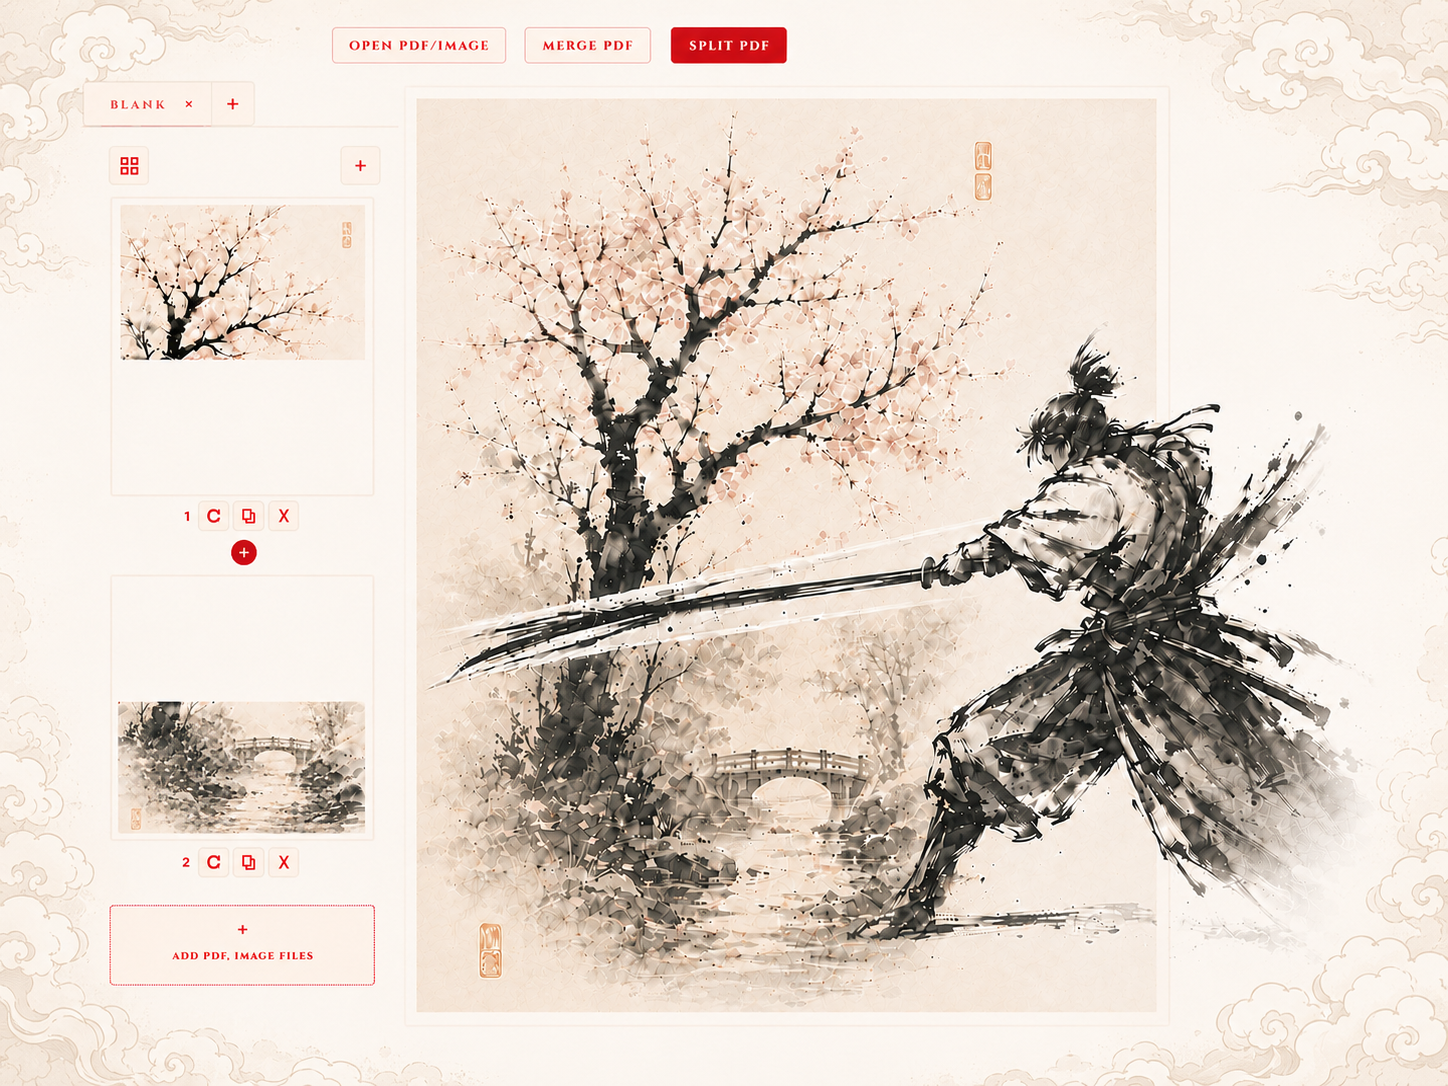
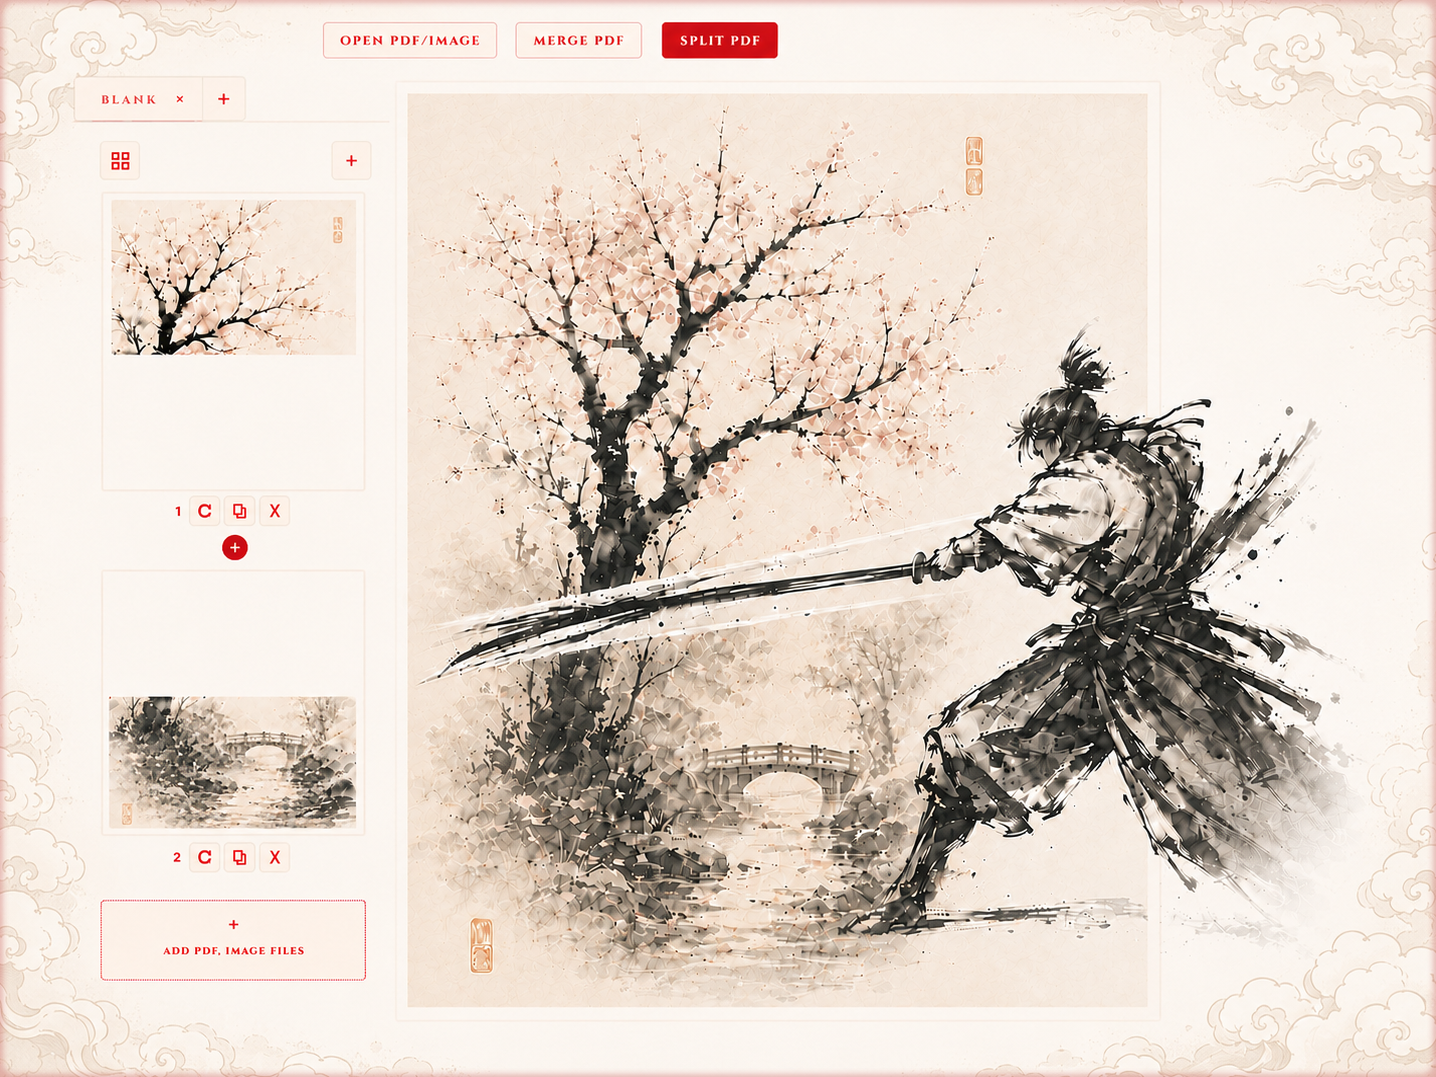
Rotation-aware text placement, shape export rotation, dead code cleanup
Audit fixes (1, 2, 3, 5, 6) from ChatGPT plan plus stub-file cleanup:

1. addFloatingBox: convert visual placement to page coords using the
   page's rotation, so text added on a rotated page lands where the
   user clicked, not at the unrotated center.

2. rasterizePage: shapes now rotate with pageRotation so the export
   matches the editor view (text and images already did).

3. Updated stale rasterizePage comment that claimed text was not
   rotated by pageRotation; it has been since the earlier text fix.

5. Extracted resetEditorState() shared by doGoHome and closeTab's
   no-tabs-left branch so they can't drift. Also pulled the closeTab
   reset out of the setTabsList updater to avoid double-run in StrictMode.

6. Split the one-line `rotate(...); drawImage(...)` in the image branch
   onto separate lines.

Dead files removed (never imported anywhere):
- PDFPage.jsx, PageThumbnails.jsx, Toolbar.jsx (one-line stubs)
- GridView.jsx, PageView.jsx (replaced by inline JSX in PDFEditor.jsx)

Also pushes the updated samurai.png.

diff --git a/src/components/PDFEditor/PDFEditor.jsx b/src/components/PDFEditor/PDFEditor.jsx
@@ -761,10 +761,9 @@ export default function PDFEditor({ pendingFile, onPendingFileConsumed, navigate
   // Close the editor entirely and return to the homepage. Wired to the
   // \'katanapdf\' wordmark in the editor toolbar - without this the link only
   // updates the URL hash and the editor still renders because pages.length > 0.
-  function doGoHome() {
-    tabSnapshots.current = {};
-    setTabsList([]);
-    setActiveTabId(null);
+  // Shared reset path used by doGoHome and closeTab's no-tabs-left branch so we
+  // don't drift on which state fields each clears.
+  function resetEditorState() {
     setPages([]);
     setPageOrder([]);
     setRotatedPages({});
@@ -785,6 +784,13 @@ export default function PDFEditor({ pendingFile, onPendingFileConsumed, navigate
     setShowSupportPrompt(false);
   }
 
+  function doGoHome() {
+    tabSnapshots.current = {};
+    setTabsList([]);
+    setActiveTabId(null);
+    resetEditorState();
+  }
+
   function goHome() {
     if (pdfBytes) { setShowLeaveConfirm(true); return; }
     doGoHome();
@@ -792,33 +798,18 @@ export default function PDFEditor({ pendingFile, onPendingFileConsumed, navigate
 
   function closeTab(id) {
     delete tabSnapshots.current[id];
-    setTabsList(prev => {
-      const next = prev.filter(t => t.id !== id);
-      if (id === activeTabId) {
-        if (next.length) {
-          // Activate the first remaining tab
-          const newActive = next[0].id;
-          const snap = tabSnapshots.current[newActive];
-          if (snap) restoreSnapshot(snap);
-          setActiveTabId(newActive);
-        } else {
-          // No tabs left - return to homepage
-          setPages([]);
-          setPageOrder([]);
-          setRotatedPages({});
-          setDeletedPages(new Set());
-          setTextBlocks({});
-          setFloatingBoxes([]);
-          setFloatingImages([]);
-          setFloatingShapes([]);
-          setHistory([]);
-          setFileName("");
-          setPdfBytes(null);
-          setActiveTabId(null);
-        }
-      }
-      return next;
-    });
+    const remaining = tabsList.filter(t => t.id !== id);
+    setTabsList(remaining);
+    if (id !== activeTabId) return;
+    if (remaining.length) {
+      const newActive = remaining[0].id;
+      const snap = tabSnapshots.current[newActive];
+      if (snap) restoreSnapshot(snap);
+      setActiveTabId(newActive);
+    } else {
+      setActiveTabId(null);
+      resetEditorState();
+    }
   }
 
   function movePageTo(pageNum, targetDisplayIdx) {
@@ -1033,9 +1024,19 @@ function addFloatingBox(pageNum) {
   floatingIdCounter++;
 
   const id = `float-${floatingIdCounter}`;
-
-  const x = pg.width / 2;
-  const y = pg.height * 0.18;
+  const rot = rotatedPages[pageNum] || 0;
+  const swap = rot === 90 || rot === 270;
+  const visW = swap ? pg.height : pg.width;
+  const visH = swap ? pg.width : pg.height;
+  const visX = visW / 2;
+  const visY = Math.max(60, visH * 0.18);
+  const rad = -rot * Math.PI / 180;
+  const cos = Math.cos(rad);
+  const sin = Math.sin(rad);
+  const dx = visX - visW / 2;
+  const dy = visY - visH / 2;
+  const pageX = pg.width / 2 + dx * cos - dy * sin;
+  const pageY = pg.height / 2 + dx * sin + dy * cos;
 
   setFloatingBoxes(prev => [
     ...prev,
@@ -1043,8 +1044,8 @@ function addFloatingBox(pageNum) {
       id,
       page: pageNum,
       z: 50 + floatingIdCounter,
-      x,
-      y,
+      x: pageX,
+      y: pageY,
       text: "",
       fontSize: 14,
       fontFamily: "Arial, sans-serif",
@@ -1770,9 +1771,9 @@ function addFloatingBox(pageNum) {
     outCtx.drawImage(baseCanvas, 0, 0);
     outCtx.restore();
 
-    // 3. Draw floating items at their visual positions on the output canvas.
-    //    Text uses only fb.angle (user-explicit rotation) — NOT the page rotation —
-    //    so it stays visually upright, matching the editor view.
+    // 3. Draw floating items at their visual positions on the rotated output canvas.
+    //    Text, images and shapes all include pageRotation so the export matches the
+    //    editor view, where floating items live inside the CSS-rotated page container.
     const rasterItems = [
       ...floatingBoxes.filter(f => f.page === pg.num).map(f => ({ ...f, _kind: 'box' })),
       ...floatingImages.filter(f => f.page === pg.num).map(f => ({ ...f, _kind: 'image' })),
@@ -1809,7 +1810,8 @@ function addFloatingBox(pageNum) {
           img.onload = () => {
             outCtx.save();
             outCtx.translate(visCX, visCY);
-             outCtx.rotate((pageRotation + (item.angle || 0)) * Math.PI / 180);            outCtx.drawImage(img, -item.w / 2, -item.h / 2, item.w, item.h);
+            outCtx.rotate((pageRotation + (item.angle || 0)) * Math.PI / 180);
+            outCtx.drawImage(img, -item.w / 2, -item.h / 2, item.w, item.h);
             outCtx.restore();
             resolve();
           };
@@ -1819,7 +1821,11 @@ function addFloatingBox(pageNum) {
         const cx = item.x + item.w / 2;
         const cy = item.y + item.h / 2;
         const [visCX, visCY] = toOut(cx, cy);
-        drawShapeOnCanvas(outCtx, { ...item, x: visCX - item.w / 2, y: visCY - item.h / 2 });
+        outCtx.save();
+        outCtx.translate(visCX, visCY);
+        outCtx.rotate(pageRotation * Math.PI / 180);
+        drawShapeOnCanvas(outCtx, { ...item, x: -item.w / 2, y: -item.h / 2 });
+        outCtx.restore();
       }
     }
     return outCanvas.toDataURL("image/png");